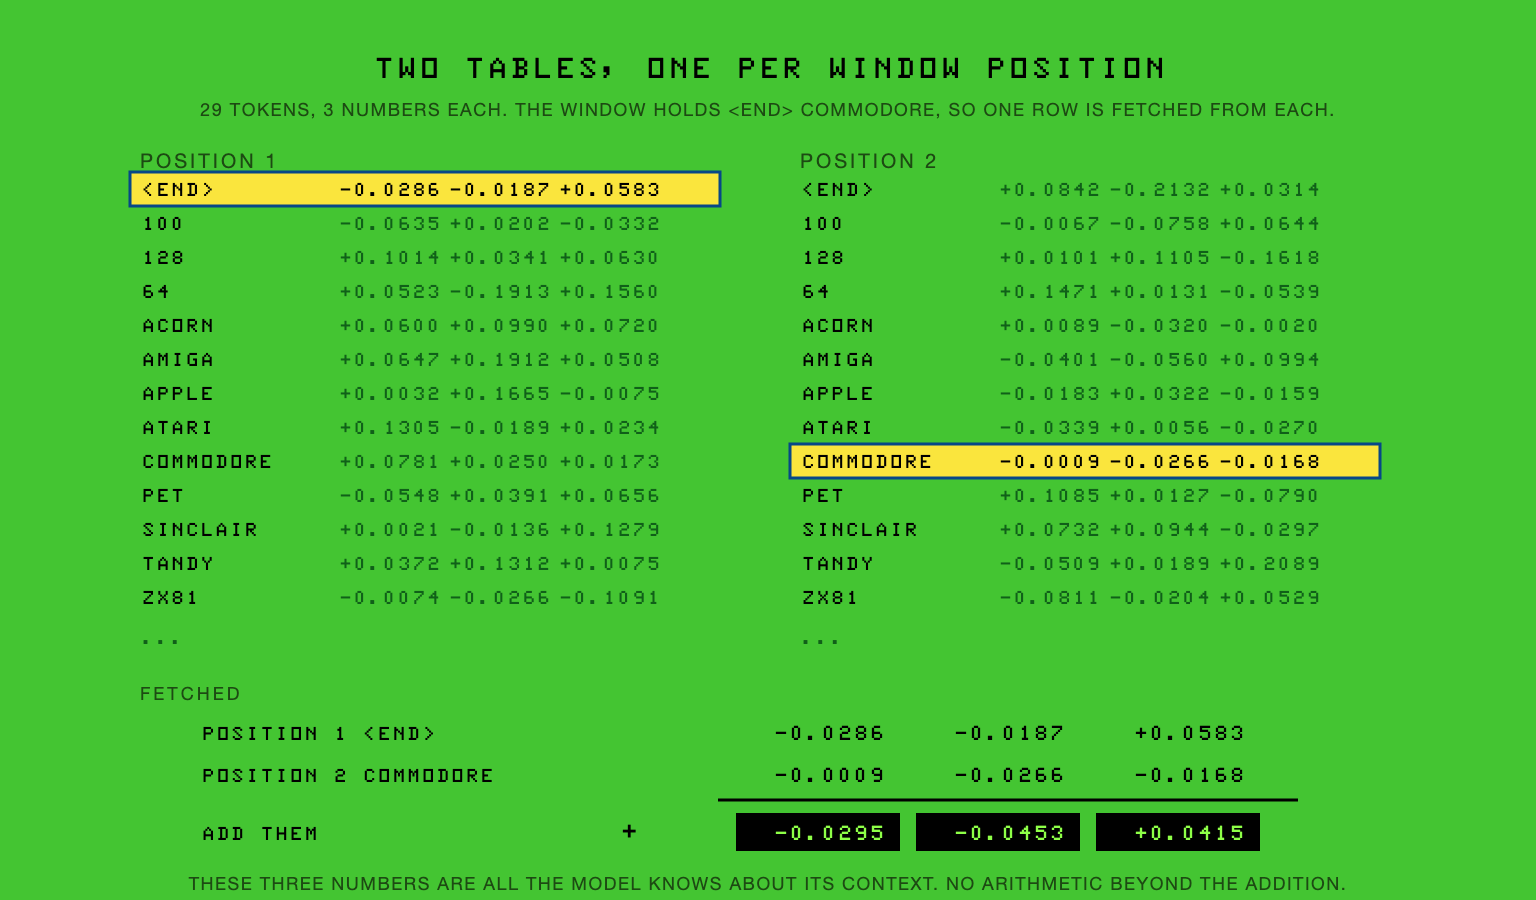
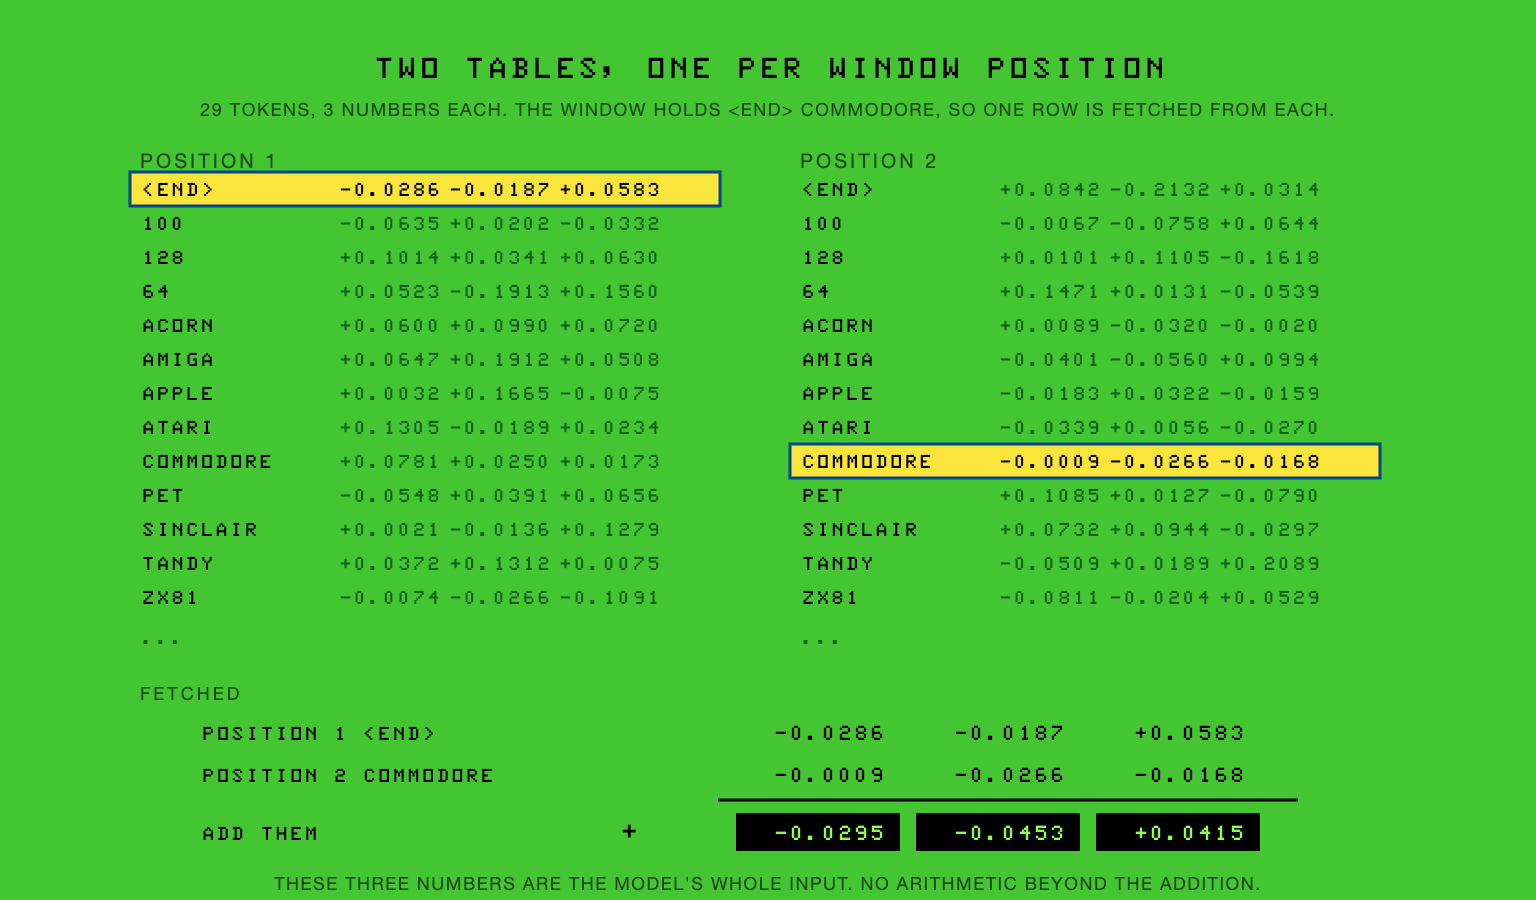
presentation: post 2 says what an embedding does, and nothing in it knows or prefers
The row places a token among the others and by where it sits relative to
the token before it: the token in its context. The figures lose 'knows'
and 'favourite'.

Claude-Session-Id: 4357d8c4-2d07-4eca-b1c8-58cc22a0a7d2

Changed region(s): [[0.125, 0.9644, 0.875, 0.9956]]

diff --git a/presentation/posts/02-where-the-numbers-live.md b/presentation/posts/02-where-the-numbers-live.md
@@ -29,19 +29,21 @@ position 2, COMMODORE   -0.0009   -0.0266   -0.0168
 add them                -0.0295   -0.0453   +0.0415
 ```
 
-![Two tables side by side on the CoCo's green screen, in its pixel type, titled TWO TABLES, ONE PER WINDOW POSITION. Each lists tokens with three signed numbers beside them. In the position 1 table the END row is highlighted in amber; in the position 2 table the COMMODORE row is. Below, the two fetched rows are written out and added, with the sum in three black cells: minus 0.0295, minus 0.0453, plus 0.0415. A caption reads: these three numbers are all the model knows about its context, no arithmetic beyond the addition.](images/where-the-numbers-live.png)
+![Two tables side by side on the CoCo's green screen, in its pixel type, titled TWO TABLES, ONE PER WINDOW POSITION. Each lists tokens with three signed numbers beside them. In the position 1 table the END row is highlighted in amber; in the position 2 table the COMMODORE row is. Below, the two fetched rows are written out and added, with the sum in three black cells: minus 0.0295, minus 0.0453, plus 0.0415. A caption reads: these three numbers are the model's whole input, no arithmetic beyond the addition.](images/where-the-numbers-live.png)
 
 Those are the real rows, exported from the model before training. The three numbers at the bottom are what the training step works on.
 
-Each row of three is a word's embedding: the numbers a token owns. A vector database sells rows like these, longer.
+Each row of three is a token's embedding, and the word is worth having because of what the row does: it places the token among the other tokens. One number would put every token on a line, more of one thing or less. Three put them in a space, so a token can be near another in more than one way at once, and after training, tokens whose rows are close are tokens the arithmetic treats alike. COMMODORE and TANDY can end up near each other because both are followed by a model name, without anything in the numbers saying what a maker is.
 
-COMMODORE has a different row in each table. In position 1 its row is +0.0781, +0.0250, +0.0173. In position 2 it's the row above. That is why COMMODORE AMIGA and AMIGA COMMODORE are different to the machine.
+COMMODORE also has a different row in each table. In position 1 its row is +0.0781, +0.0250, +0.0173. In position 2 it's the row above. So the row places the token among the others and by where it sits relative to the token before it: the embedding is the token in its context. That is why the two words are everywhere in this field. A name becomes a position, and the position is where all the arithmetic happens.
+
+A vector database sells rows like these, longer.
 
 Two positions, 29 tokens, three numbers each: 174 numbers, most of the model.
 
 ## Why three?
 
-One number would put a word on a line: more of one thing, or less. Three put it in a space, so words can be near each other in more than one way at once. GPT-3's embedding is 12,288 numbers long where ours is three. Same idea, more room.
+GPT-3's embedding is 12,288 numbers long where ours is three. Same idea, more room.
 
 Every extra number is another 29 by 3 multiplies per example, and on the CoCo a multiply costs 11 cycles at 0.89 MHz. I priced the widths before choosing:
 
@@ -85,7 +87,7 @@ That's 87 multiplies. Next post shows the 6809 doing one.
 Before training the tables are random and small, so the scores are all near zero. Here are the shares they turn into for the window END, COMMODORE, where the right answer is AMIGA:
 
 ```text
-TRS-80   3.49%    <- the model's favourite, barely
+TRS-80   3.49%    <- the largest share, barely
 128      3.48%
 ZX80     3.48%
 ATARI    3.48%
@@ -93,7 +95,7 @@ ATARI    3.48%
 AMIGA    3.45%    <- the right answer, in the middle of the pack
 ```
 
-Twenty-nine tokens, each near one in twenty-nine. The model has no opinion yet.
+Twenty-nine tokens, each near one in twenty-nine. Nothing stands out yet.
 
 ## Scores become shares
 
@@ -140,7 +142,7 @@ AMIGA now has 3.68%, up from 3.45. That is the size of one step, and there are 1
 
 Here is the die being rolled, from the run you watched last time, after all 1,160 of those steps. Seed 6809 drew three bytes: 50, 12, 119.
 
-The first draw, 50, landed on COMMODORE, which owned 27 of the 256. TANDY owned 131, more than half the line, and lost. The second draw, 12, landed on 128, which owned 17; the favourite there was PET with 25. The third draw, 119, landed on END, which by then owned 228 of 256. The model was sure the name was over.
+The first draw, 50, landed on COMMODORE, which owned 27 of the 256. TANDY owned 131, more than half the line, and was not drawn. The second draw, 12, landed on 128, which owned 17; the widest stretch there was PET's, 25. The third draw, 119, landed on END, which by then owned 228 of 256.
 
 ![Three horizontal lines from 0 to 255 on the CoCo's green screen, titled SEED 6809 DREW 50, 12, 119. Each line is divided into stretches, one per token, as wide as its share. On the first line a navy arrow at 50 lands on COMMODORE's stretch, highlighted amber, while TANDY's stretch covers half the line. On the second, an arrow at 12 lands on 128. On the third, an arrow at 119 lands on END, which covers almost the whole line. The bottom reads: THE NAME: COMMODORE 128.](images/roll-it.png)
 
@@ -148,7 +150,7 @@ COMMODORE 128. A real name; it's in the training data. It's also the first name 
 
 Seed 6810 drew 177, 110 and 29 from the same table, and got TANDY COMPUTER. Same weights, same rows, different bytes. The eleven names on that screen are eleven paths through one table.
 
-Two things about the die. For the first two tokens, END's stretch is handed to the favourite, so a name is never one word long; that rule is in the code, not the weights. And you don't have to roll. Take the widest stretch every time and you get the same name every time: greedy decoding, which is what temperature zero means. Temperature rescales the scores before they become shares. Higher narrows the fat stretch and widens the thin ones, lower does the reverse, and zero is greedy.
+Two things about the die. For the first two tokens, END's stretch is handed to the widest, so a name is never one word long; that rule is in the code, not the weights. And you don't have to roll. Take the widest stretch every time and you get the same name every time: greedy decoding, which is what temperature zero means. Temperature rescales the scores before they become shares. Higher narrows the fat stretch and widens the thin ones, lower does the reverse, and zero is greedy.
 
 This is why it's useful to think in probabilities. The model never answers. It hands over shares, and a draw picks. Take the biggest every time and you get one answer forever; draw, and you get variety, and now and then TANDY ZX80. It's the die.
 
